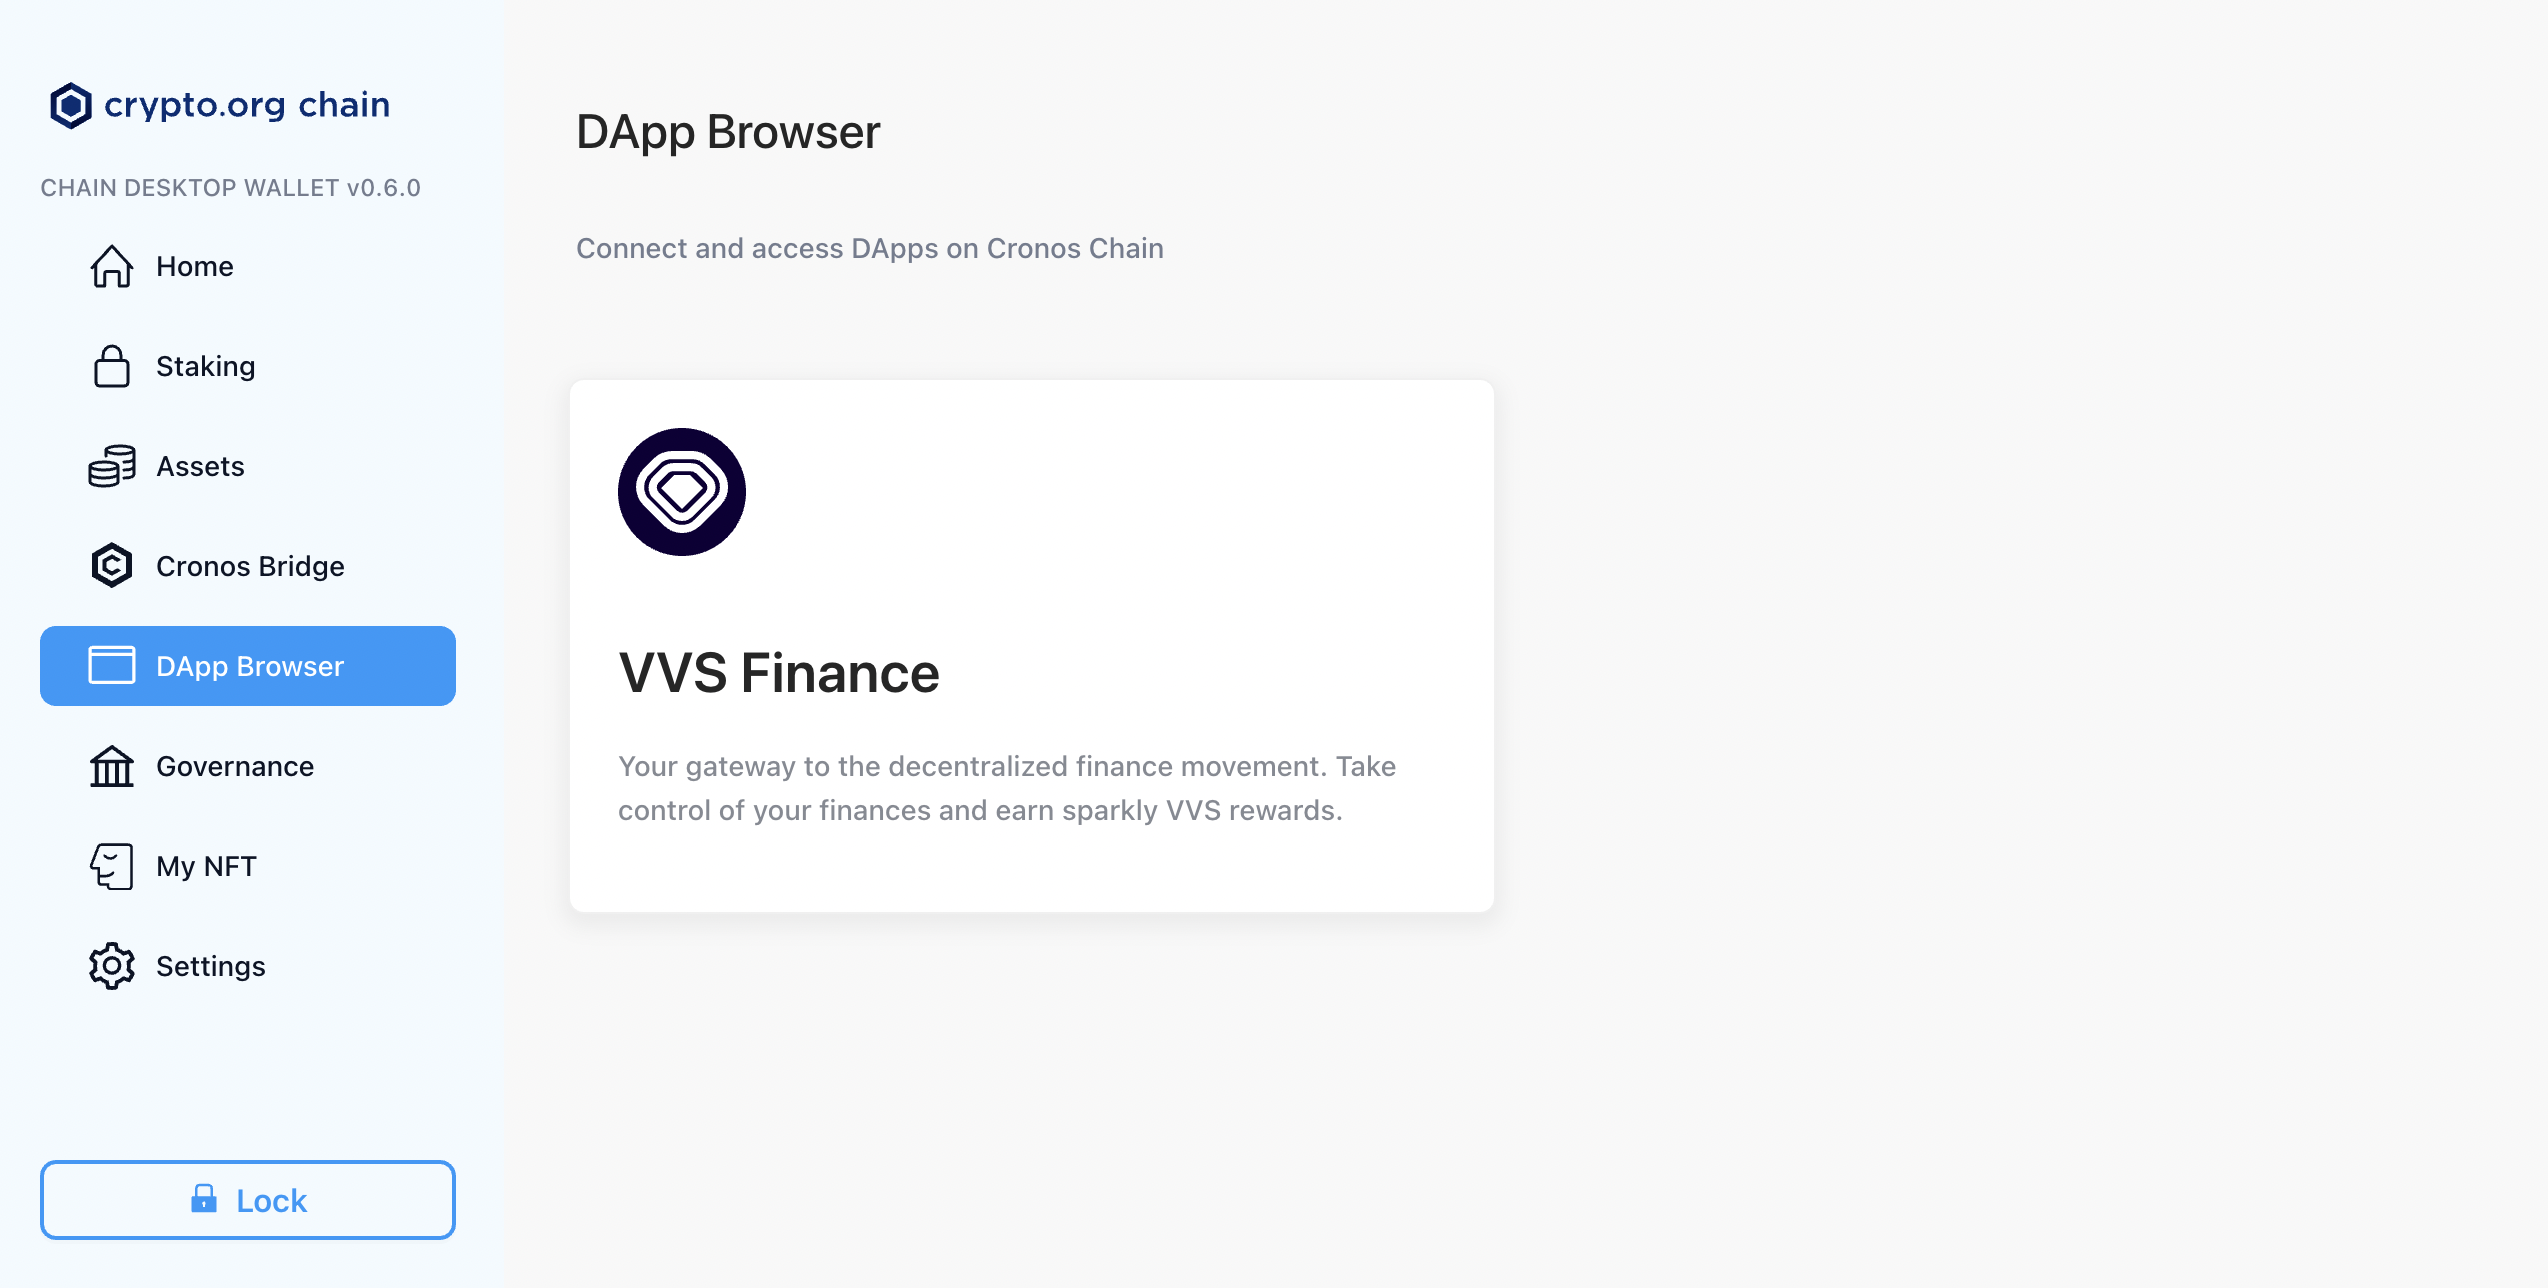
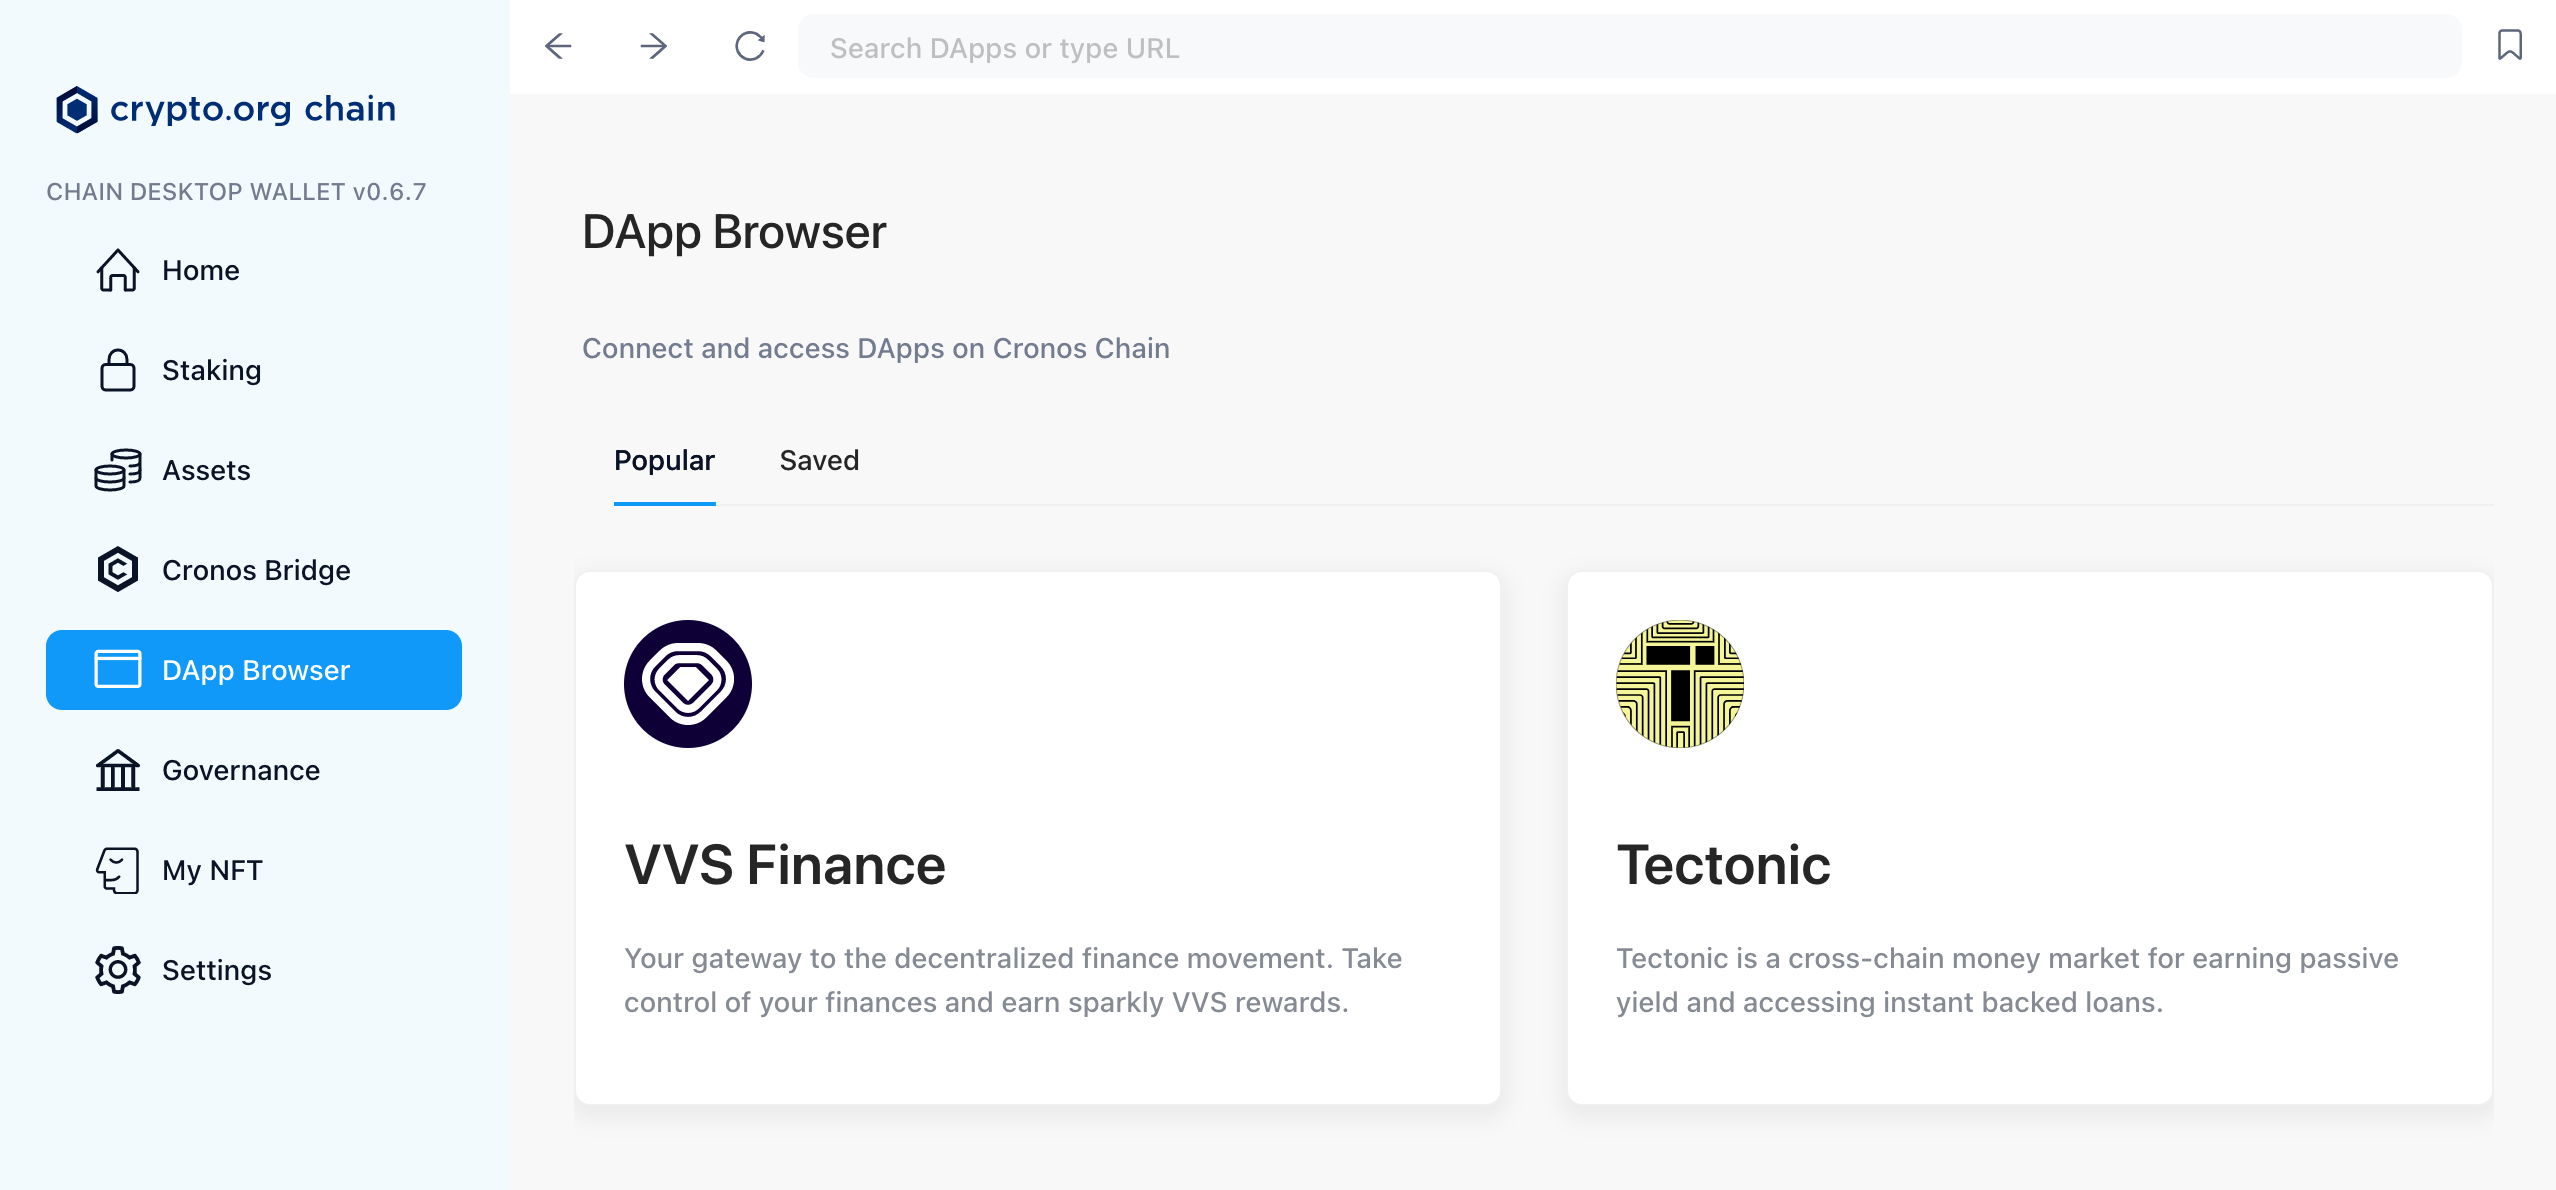
Update docs for DApp Browser Full Support & Ledger UX revise

diff --git a/docs/wallets/ledger_desktop_wallet.md b/docs/wallets/ledger_desktop_wallet.md
@@ -24,15 +24,15 @@ In case you have any enquiry about using Ledger device with desktop wallet, kind
 - **Step 1.2** - On your Ledger device, go to "*Install app*", It should show "*Open Ledger live to install apps*"
 
 - **Step 1.3** - On the Ledger Live, find Crypto.org Chain & Ethereum to install in the app catalog under "*Manager*" as below:
+        <img src="./assets/ledger_desktop_wallet/s1-3-1.png" />
+        <img src="./assets/ledger_desktop_wallet/s1-3-2.png" />
+
+- **Step 1.4** - Your Ledger device will display "*Processing…*". Once the installation is completed, you should see "*Installed*" on your Ledger Live as below:
         <img src="./assets/ledger_desktop_wallet/s1-4-1.png" />
         <img src="./assets/ledger_desktop_wallet/s1-4-2.png" />
 
-- **Step 1.4** - Your Ledger device will display "*Processing…*". Once the installation is completed, you should see "*Installed*" on your Ledger Live as below:
-        <img src="./assets/ledger_desktop_wallet/s1-5-1.png" />
-        <img src="./assets/ledger_desktop_wallet/s1-5-2.png" />
-
     You can confirm the installation by checking if the Crypto.org App shows up in the main menu of your Ledger device:
-            <img src="./assets/ledger_desktop_wallet/s1-5-3.jpeg" />
+            <img src="./assets/ledger_desktop_wallet/s1-4-3.jpeg" />
 
 **Remark**: Once Crypto.org App & Ethereum successfully installed, please remember to close the *Ledger Live* app before proceeding to the next step .
 
@@ -104,8 +104,14 @@ Desktop Wallet supports all sorts of transactions for both normal wallets and wa
 Fill up the request information: recipient address, amount to be sent and optional memo as needed:
             <img src="./assets/ledger_desktop_wallet/s4-1-2.png" />
 
-- **Step 2** - Once you hit the "*Continue*" button, you can review the transaction details in the confirmation window on the desktop wallet and proceed to the next step by clicking "*Confirm*":
-            <img src="./assets/ledger_desktop_wallet/s4-2.png" />
+- **Step 2** - Once you hit the "*Continue*" button, you can review the transaction details in the confirmation window on the desktop wallet. Proceed to the next step by clicking "*Confirm*":
+            <img src="./assets/ledger_desktop_wallet/s4-2-1.png" />
+
+**Remark**: If you have not yet established a connection with your Ledger device, a notification will popup on the top-right hand corner, asking you to confirm connection with your Ledger.
+            <img src="./assets/ledger_desktop_wallet/s4-2-2.png" />
+
+Follow the instructions, and confirm the connection on your ledger device. Make sure you are using the ledger device storing with the same wallet address on Desktop Wallet.
+                <img src="./assets/ledger_desktop_wallet/s4-3-2.jpeg" />
 
 - **Step 3** - Now, your transaction details will be shown on your ledger device, which includes: 
 Chain-id, Account number, sequence, Type of the transaction, the amount in "*basetcro*", Sender address, Receiver address, memo message, Transaction fee and gas:

diff --git a/docs/wallets/desktop_wallet.md b/docs/wallets/desktop_wallet.md
@@ -313,18 +313,30 @@ You can always review your latest bridge transfer history at the top-right corne
 If you found your bridge transfer history failed to get latest transferrals, please make sure your Bridge Indexing URL is correct with the value [mentioned above](#_6-1-before-the-bridge-transfer)
 
 ## 7. DApp Browser
-Since v0.6.1, you’re able to access various DApps directly (`Standard` Wallet Type) through the Desktop Wallet. Certain DApps are available at the moment, and we’re going to bring more supported DApps in the future. 
+Since v0.6.4, you’re able to access any DApps available on Cronos Mainnet Beta directly through the Desktop Wallet on both Standard & Ledger Wallet. 
         <img src="./assets/desktop_wallet/7.png" />
 
-### 7.1 - Connect to DApp
-To connect to a DApp, click the "connect" button and choose "**Metamask**". 
-        <img src="./assets/desktop_wallet/7-1-1.png" />
+### 7.1 - Choose your DApp
+You may go to any DApps you like by either clicking the DApps inside *Popular* / *Saved* section, or type the URL of the DApp directly on the Address Bar at the top. 
+
+### 7.2 - Save your favourite DApp
+You can always save any DApps you like by clicking the bookmark button at the top-right corner. When the bookmark button turns blue, the DApp has been successfully saved into your *Saved* collection.
+        <img src="./assets/desktop_wallet/7-2-1.png" />
+
+The bookmarked DApps will appear in *Saved* section for quick access.
+        <img src="./assets/desktop_wallet/7-2-2.png" />
+
+### 7.3 - Connect to DApp
+To connect to a DApp, click the "connect" button and choose "**Crypto.org Chain Desktop Wallet**". 
+        <img src="./assets/desktop_wallet/7-3-1.png" />
+        
+**Remark**: If "**Crypto.org Chain Desktop Wallet**" is missing from the options, choosing "**Metamask**" will also allow you to connect to the DApp. 
 
 Once you see that your selected wallet address on the Desktop Wallet appears, you’re successfully connected to the DApp. 
-        <img src="./assets/desktop_wallet/7-1-2.png" />
+        <img src="./assets/desktop_wallet/7-3-2.png" />
 
-### 7.2 - Enter your App Password
+### 7.4 - Enter your App Password
 When you trigger any transactions on the DApp for the first time, a Password Input prompt will pop up – as is the case for any transaction you perform on the Desktop Wallet. 
-        <img src="./assets/desktop_wallet/7-2.png" />
+        <img src="./assets/desktop_wallet/7-4.png" />
 
 Enjoy your DApp Journey!
